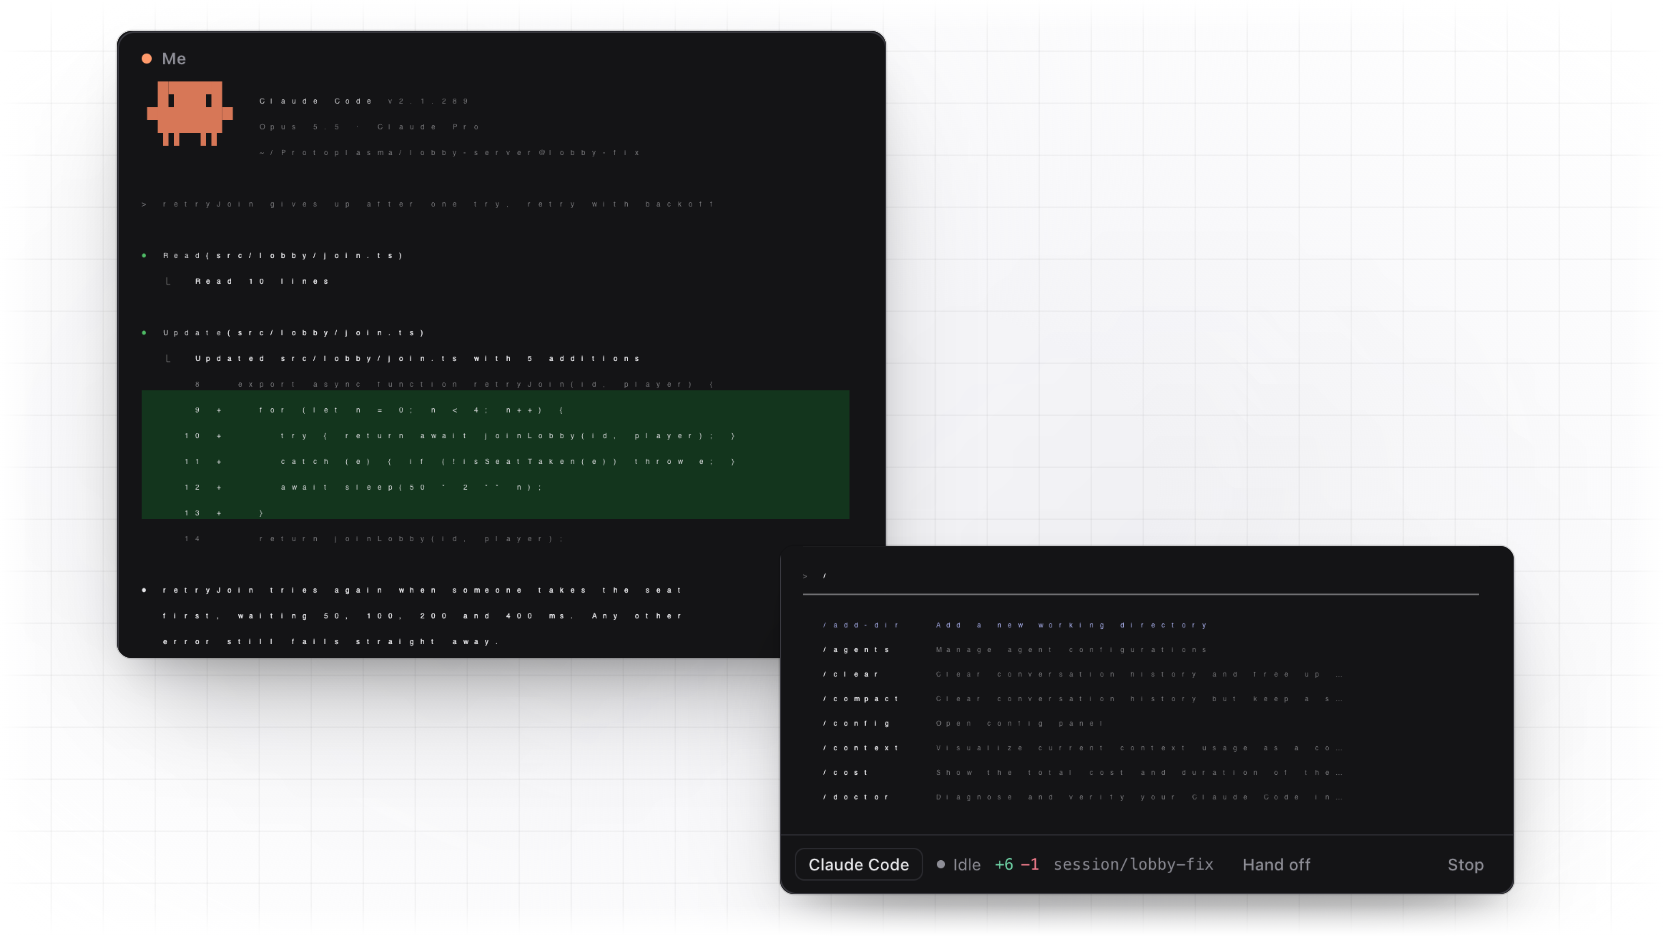
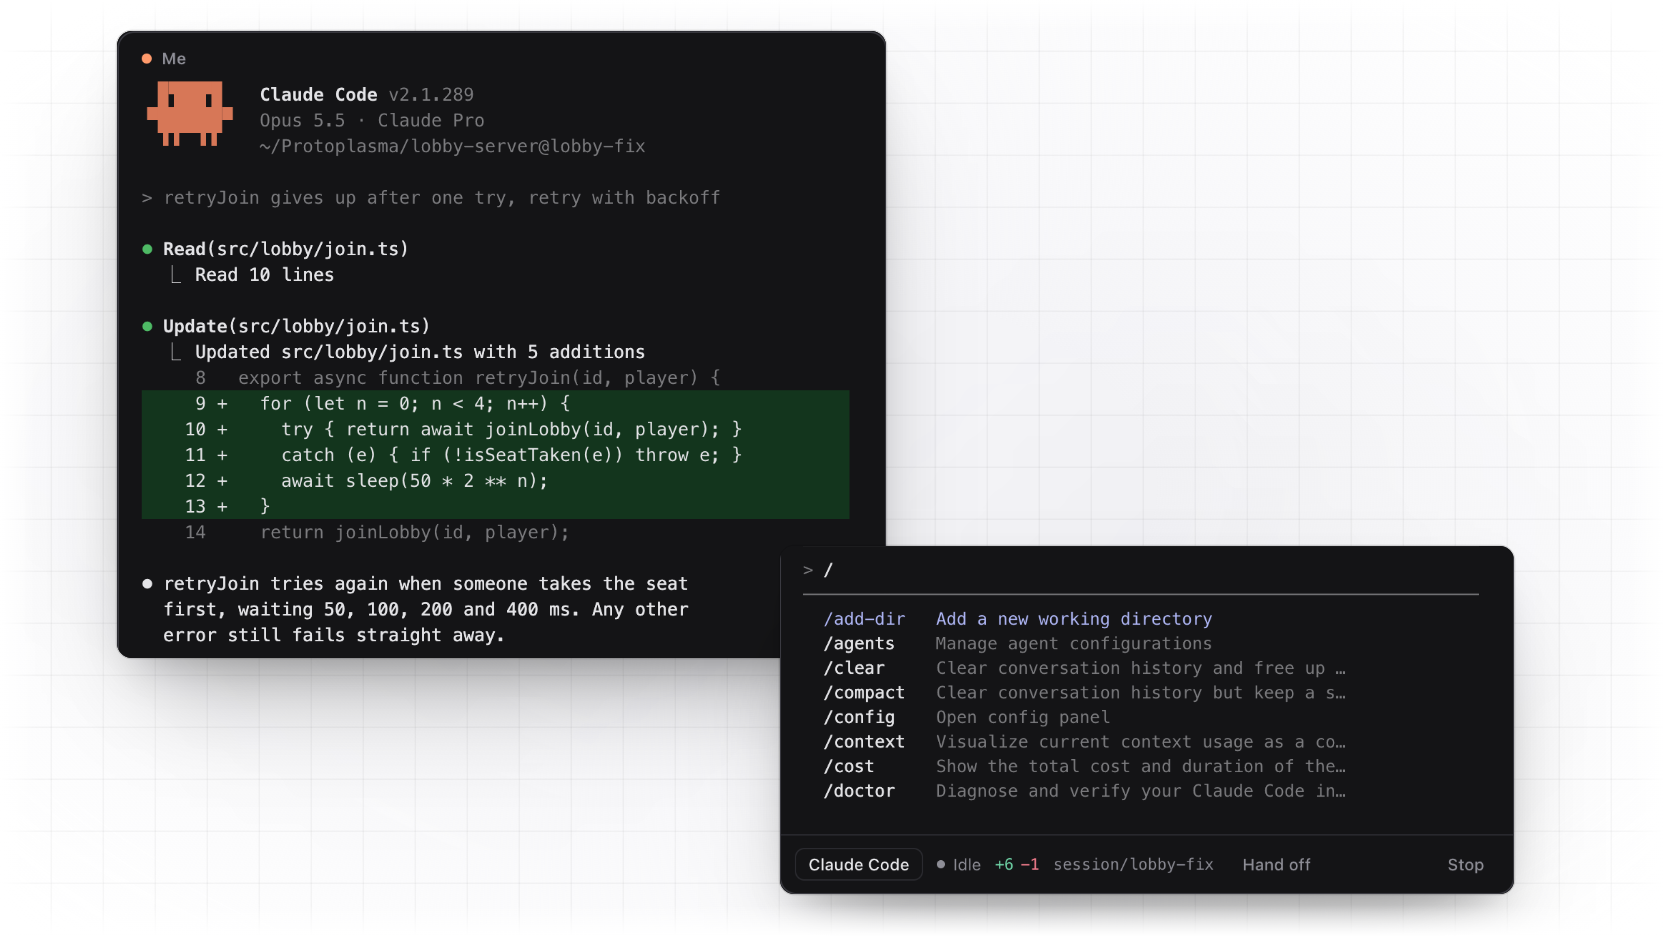
Back to Electron 44.10.2: 44.11.3's canvas refuses the font terminals draw with, and e2e now checks it

diff --git a/scripts/e2e.js b/scripts/e2e.js
@@ -510,6 +510,9 @@ async function run(win, hub) {
     // ---- signing out stops your agents and clears the board
     await js(`openNewAgent('bye'); $('input[name=source][value=folder]').checked = true; syncSource(); $('#cwd').value = ${JSON.stringify(root)}; $('#agentForm').requestSubmit()`);
     await until('local.size === 1 && hubLanes.length === 1', 15000);
+    // The letters in a terminal are drawn on a canvas with this font. Electron 44.11.3's canvas refused it (xterm writes it
+    // with a leading space), and every letter came out in the canvas's own 10px font: tiny, in full-size cells.
+    check('a canvas takes the font terminals draw their letters with', await js(`(() => { const c = document.createElement('canvas').getContext('2d'); c.font = ' normal 25px ' + terminalFont(); return c.font.startsWith('25px'); })()`));
     await js(`$('#signout').click()`);
     check('signing out stops your agents and returns to sign-in', await until(`local.size === 0 && me === null && currentTeam === null && $('#start').open && !$('#signinView').hidden && terms.size === 0`, 10000),
       await js(`JSON.stringify({ local: local.size, terms: terms.size, me: !!me })`));

diff --git a/HANDOFF.md b/HANDOFF.md
@@ -14,7 +14,7 @@ shared.js changed) and a tag releases to installed copies: both are David's call
   while David was away: [docs/sessions/2026-11-15.md](docs/sessions/2026-11-15.md). **The findings behind it:**
   [docs/research/](docs/research/). **Notes for the release:** [docs/release-notes/0.7.0.md](docs/release-notes/0.7.0.md)
   (a minor version: `npm version minor`, not `npm run release`).
-- **Checks:** `npm test` 120 of 120. `npm run e2e` 143 of 143 (one later run: 142, failing only "Comment on this points
+- **Checks:** `npm test` 120 of 120. `npm run e2e` 144 of 144 on Electron 44.10.2 (some runs: one fewer, failing only "Comment on this points
   the next comment at those lines", which needs the window to have focus). The customer simulation: 91 of 91.
 
 What's in, by phase:
@@ -44,9 +44,12 @@ What it still needs, in order:
 - **Not built:** most of R9 (agents in one folder now share a git poll; polling less often when nothing changes
   isn't done), the rest of phase 3 (the team picker, one "beside", Plan and Memory in the
   side panel, a shorter bar, what to do about an overlap), and the rest of phase 5.
-- **Two things seen once and not explained** (details in the log): on the first launch of a freshly downloaded
-  Electron, e2e's "creates a This Mac team…" step failed and a terminal drew its text at half size. The second has a
-  guard now (renderer.js `scaleOff`) and e2e provokes and checks it; the first passed on every later run.
+- **Electron stays at 44.10.2. Don't take 44.11.x as it is:** its canvas refuses the font string xterm's WebGL renderer
+  draws letters with (`" normal 25px …"`, with a leading space), so every terminal's text comes out tiny in full-size
+  cells. This is what David saw twice. e2e now checks a canvas takes that font, so the next Electron update says so at
+  once. The way forward for 44.11 and later is an xterm that writes the font without the leading space.
+- **Seen once and not explained:** on the first launch of a freshly downloaded Electron, e2e's "creates a This Mac
+  team…" step failed; it passed on every later run.
 
 ## Latest release: v0.6.1 (8 Nov 2026, `a52368f`): small fixes, lighter teammates' terminals, and research on Rust
 

diff --git a/docs/sessions/2026-11-15.md b/docs/sessions/2026-11-15.md
@@ -135,3 +135,8 @@ call after he has tried the status fixes live.
   above; a hub sending something other than a list for `conflicts` could have thrown inside `render()` (now checked
   with `Array.isArray`); starting an agent before the list of agents had arrived threw a bare TypeError (now a
   sentence); lane.js looks agents up with `Object.hasOwn`. A second pair of eyes on those five files is still worth it.
+- **The tiny terminal text David reported twice is found: it was Electron 44.11.3** (the R14 update made earlier in
+  this work). Its canvas rejects the font string xterm's WebGL renderer uses (`" normal 25px <families>"`), and the
+  letters are drawn in the canvas's default 10px font. Shown with a ten-line Electron script: 44.11.3 rejects it,
+  44.10.2 accepts it. Electron is back at `~44.10.2`, and e2e has a check that a canvas takes the terminals' font.
+  The earlier "pixel ratio" theory was wrong; `scaleOff` stays as a harmless guard. R14 is undone, on purpose.

diff --git a/docs/plan.md b/docs/plan.md
@@ -38,7 +38,8 @@ Ctrl-C or digit the agent's Mac watches its screen for 2.5 s and tells the hub w
 - R4: answering a permission clears Needs you at once.
 - R7: the relay sends the hub only what it reads. Then change the privacy text in the README and Settings, which
   quote what passes through.
-- R12: fix the e2e step that needs a dirty checkout. R14: Electron `~44.11.3`.
+- R12: fix the e2e step that needs a dirty checkout. R14 (Electron 44.11.3) was tried and undone: its canvas refuses
+  the font xterm draws letters with, so terminal text came out tiny. Electron stays at `~44.10.2`.
 - Recheck Codex's hooks on 0.169.0 (`codex app-server`, `hooks/list`), and e2e on Claude Code 2.1.325.
 
 **Done when:** `npm test` and `npm run e2e` pass, with new tests for each of R1 to R5 (hub-live.test.js) and R7

diff --git a/docs/release-notes/0.7.0.md b/docs/release-notes/0.7.0.md
@@ -32,7 +32,6 @@ Privacy and weight:
 - **Terminal output goes only where it's watched.** An agent's output is sent to teammates who have its session on
   screen, not to everyone on the team, and the app keeps a terminal for a teammate's agent only while you're looking.
 - Terminal text that was drawn at the wrong size after the display's scale changed now corrects itself.
-- Electron 44.11.3, with the latest security fixes from Chromium.
 
 Smaller things: **Share** in a session is now **Invite**; an agent that hasn't reported yet reads Idle, not Running;
 creating an online team where only the hub's owners can now says so and offers This Mac.
